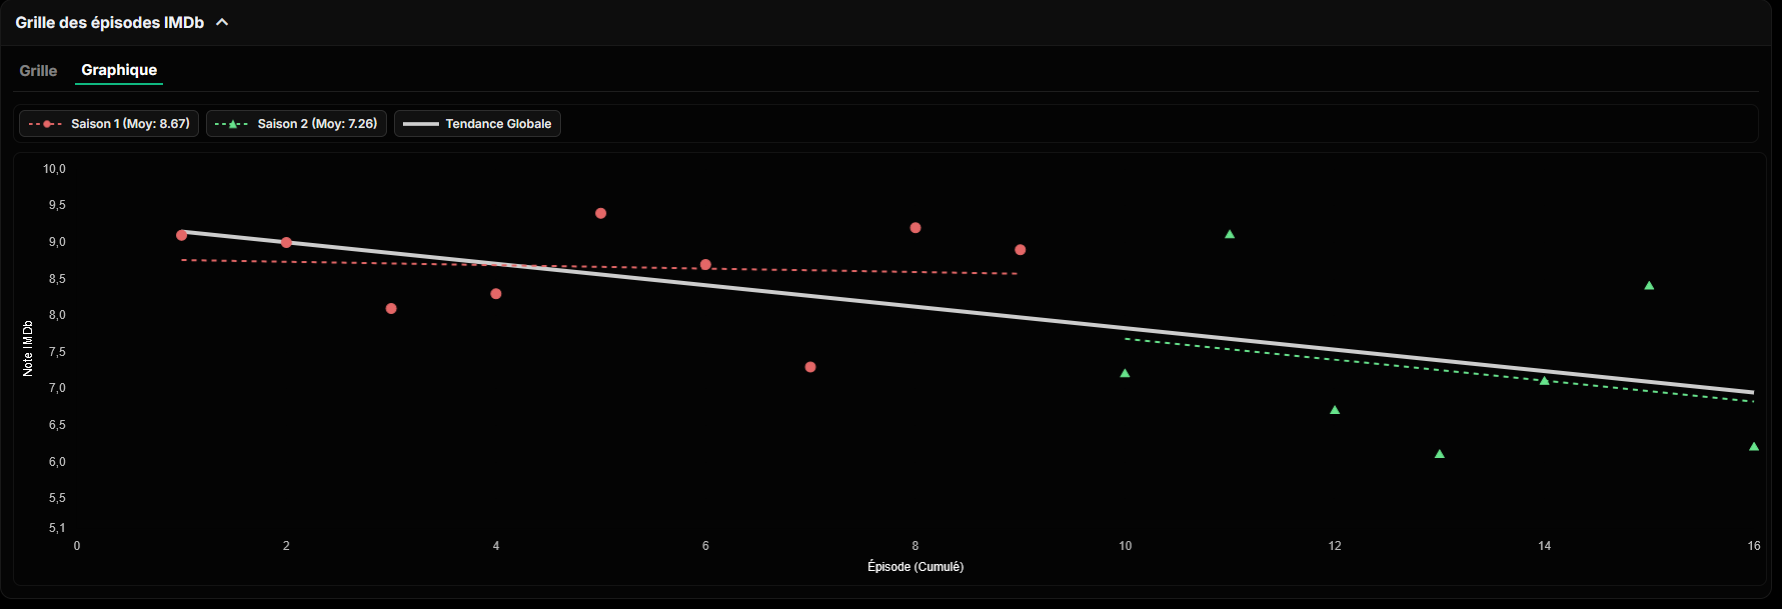
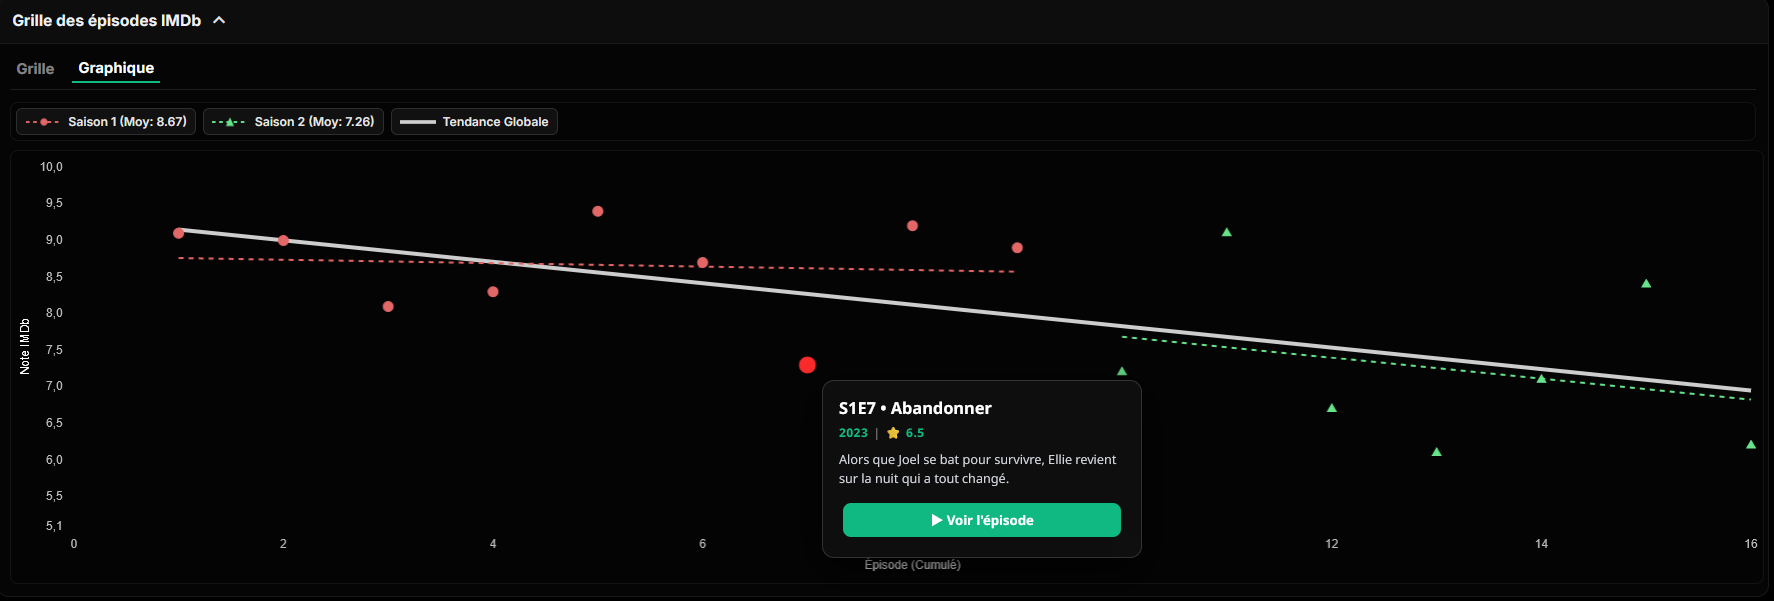
docs: update README with features, build instructions, and new screenshots

diff --git a/README.md b/README.md
@@ -4,12 +4,18 @@ A plugin for Jellyfin that adds an interactive episode ratings heatmap and cumul
 
 The Heatmap design is based on [Damocles-fr/jellyfin-imdb-episodes-heatmap-ratings-grid](https://github.com/Damocles-fr/jellyfin-imdb-episodes-heatmap-ratings-grid).
 
-## Screenshots
+## 📈 Features
 
-<img src="https://raw.githubusercontent.com/tholeb/jellyfin-imbd-heatmap-and-chart/master/images/Heatmap.png">
-<img src="https://raw.githubusercontent.com/tholeb/jellyfin-imbd-heatmap-and-chart/master/images/Chart.png">
+This plugin adds a new tab to the series detail page which displays a heatmap of episode ratings and a chart of cumulative rating trend.
 
----
+When hovering over an episode, a tooltip is displayed with the episode title, summary and rating.
+
+![Heatmap](images/heatmap.png)
+
+![Chart](images/chart.png)
+
+The plugin is available in english and french. [Feel free to propose a PR for your language !](https://github.com/tholeb/jellyfin-imbd-heatmap-and-chart/tree/2f1e9c875518e885d9e6fa9b312107abf8852738/Jellyfin.Plugin.ImdbHeatmap/Localization)
+
 
 ## 📦 Installation & Plugin Updates
 
@@ -24,6 +30,18 @@ To install and receive automatic updates directly inside Jellyfin:
    ```
 5. Save, then go to **Catalog** to install the plugin.
 
+## 🔧 Building from source
+
+```bash
+dotnet build
+```
+
+## 💡 Inspiration & Thanks
+
+- [Damocles-fr/jellyfin-imdb-episodes-heatmap-ratings-grid](https://github.com/Damocles-fr/jellyfin-imdb-episodes-heatmap-ratings-grid)
+- [ya0903/imdb-episode-dataset](https://github.com/ya0903/imdb-episode-dataset)
+
+---
 
 ## AI Usage
 
